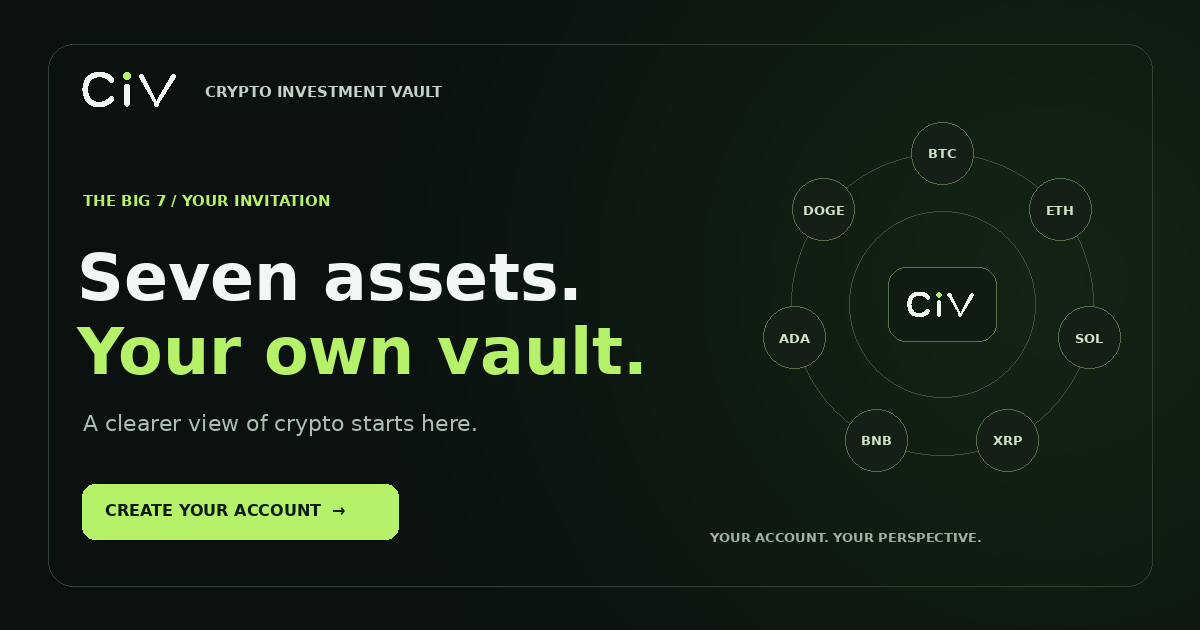
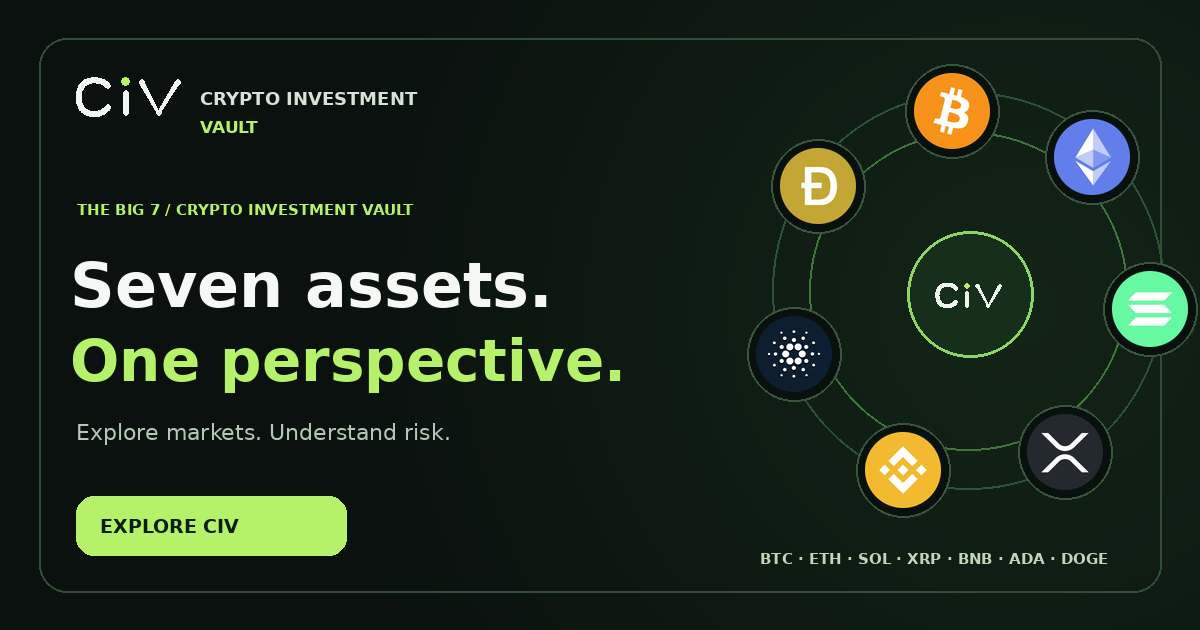
Keep CIV sharing artwork available in every deployment

diff --git a/docs/brand-asset-builds.md b/docs/brand-asset-builds.md
@@ -1,0 +1,7 @@
+# Brand assets across deployment paths
+
+The Open Graph image and invitation image are generated by `scripts/generate_brand_assets.py` from the checked-in CIV mark and seven-asset SVG artwork. Keep the resulting production PNGs checked in as well as the generator. The GitHub production workflow regenerates these images, while a direct Cloudflare Workers build can deploy the repository assets without that Python generation step. Both paths must have the same current image URLs available.
+
+A live smoke check caught `/og-invitation-v3.png` returning 404 after a direct build replaced a workflow deployment: that new image was generated in CI but absent from the repository. The current raster assets now ship in the repository, including the v3 invitation image. The public-asset test checks the PNG signatures and 1200×630 dimensions of the sharing images referenced by the frontend before CI's generation step runs.
+
+When changing the brand image or its URL, regenerate with the pinned Pillow/CairoSVG versions from the deployment workflow, review the result, commit the changed raster assets, and run both the repository checks and live social-preview smoke check. Re-running a deployment without fixing the missing artifact is not a durable fix.
